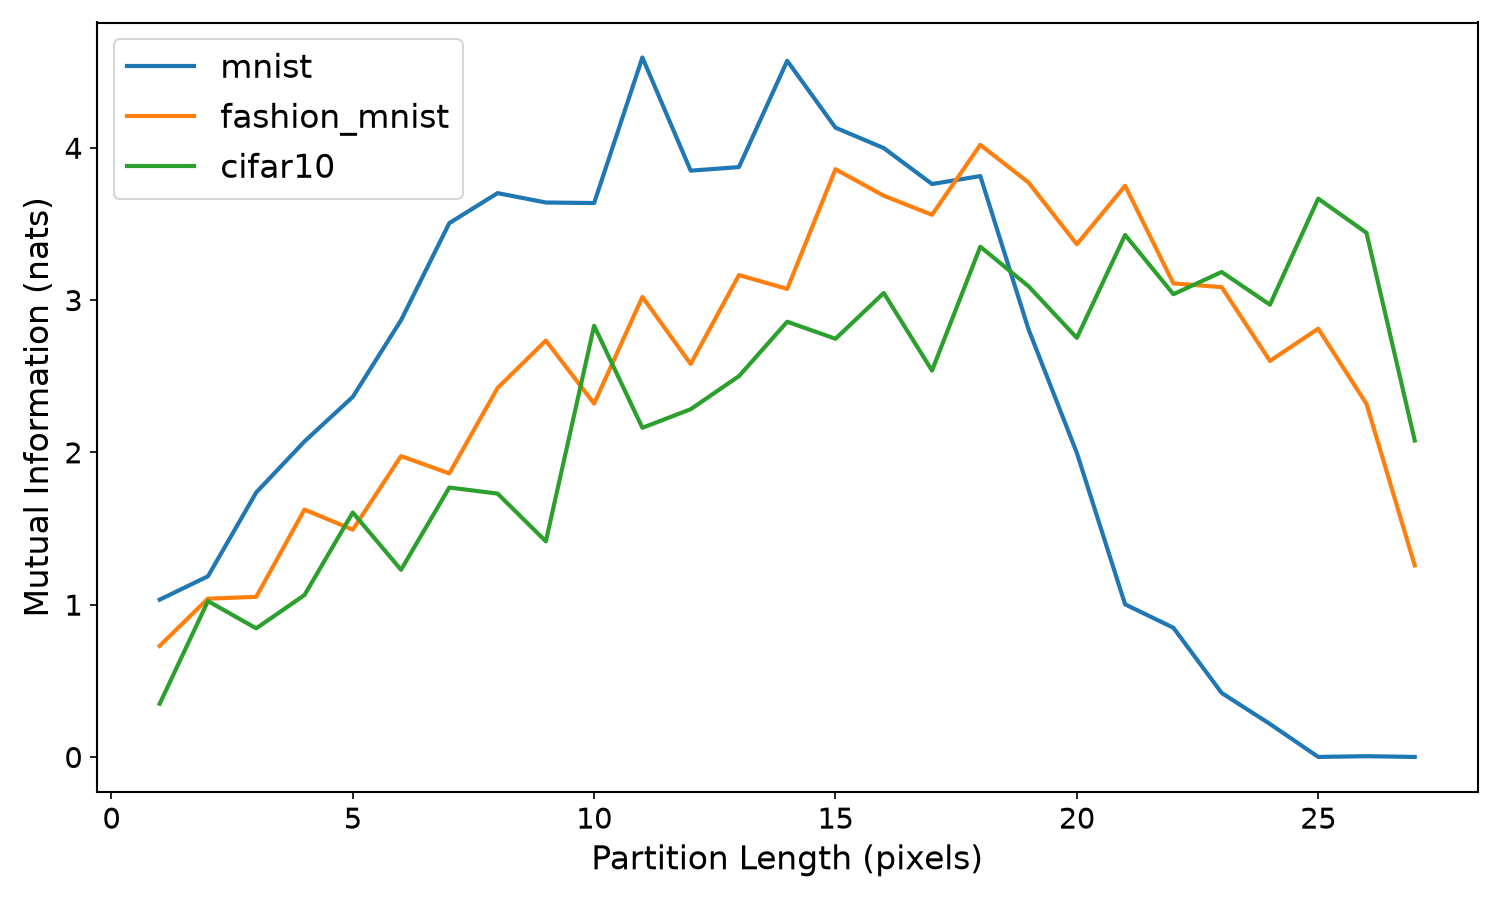
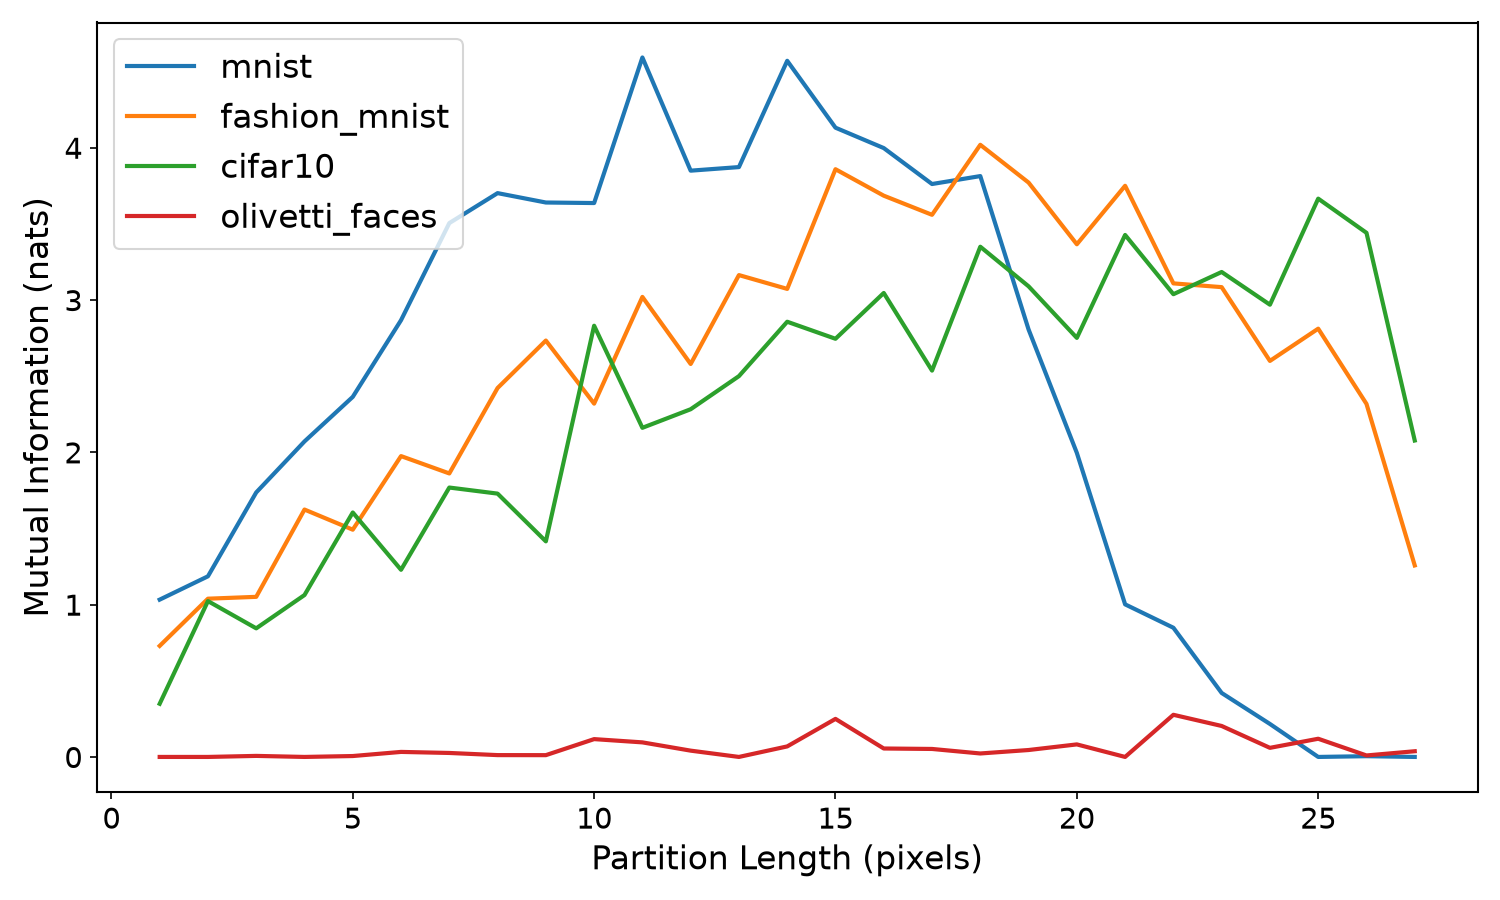
modified:   README.md 	modified:   examples.ipynb 	new file:   gaussian_scaling_analytic.pdf 	new file:   gaussian_scaling_analytic.png 	new file:   gaussian_scaling_validation.pdf 	new file:   gaussian_scaling_validation.png 	modified:   real_dataset_scaling.pdf 	modified:   real_dataset_scaling.pn

diff --git a/src/image.py b/src/image.py
@@ -278,6 +278,18 @@ def _load_fer2013_csv(csv_path, num_images):
     images = np.stack(pixel_rows).reshape([-1, 48, 48])
     return images
 
+def _load_olivetti_faces():
+
+    # This helper loads the Olivetti Faces dataset (400 grayscale face
+    # images, 10 each from 40 subjects) via scikit-learn. Unlike FER-2013,
+    # it downloads automatically from a stable, non-Kaggle mirror with no
+    # manual steps, but it is a face-recognition (identity) dataset rather
+    # than a facial-emotion dataset, and much smaller (400 images total).
+
+    from sklearn.datasets import fetch_olivetti_faces
+    data = fetch_olivetti_faces()
+    return data.images
+
 def get_images(source, num_images, strength = "small", target_size = DEFAULT_IMAGE_SIZE,
         fer_csv_path = None, fer_data_dir = None):
 
@@ -309,6 +321,13 @@ def get_images(source, num_images, strength = "small", target_size = DEFAULT_IMA
     elif source == 'fer2013':
         images = _load_fer2013(num_images, data_dir = fer_data_dir, csv_path = fer_csv_path) / 255
         # FER-2013 images are 48 x 48, so they are resized down to the target.
+        images = conform_size(images, target_size, mode = "resize")
+        cov = np.eye(images.shape[1] * images.shape[2])
+        mean = np.zeros(images.shape[1] * images.shape[2])
+    elif source == 'olivetti_faces':
+        images = _load_olivetti_faces()[:num_images]
+        # Olivetti Faces are 64 x 64 and already in [0, 1], so they are
+        # resized down to the target (only 400 images exist in total).
         images = conform_size(images, target_size, mode = "resize")
         cov = np.eye(images.shape[1] * images.shape[2])
         mean = np.zeros(images.shape[1] * images.shape[2])

diff --git a/README.md b/README.md
@@ -18,6 +18,7 @@ This version replaces the original **Tiny Images** dataset (the `tiny` and `gaus
 | `fashion_mnist` | Fashion-MNIST | 28x28 grayscale | 28x28 grayscale |
 | `cifar10` | CIFAR-10 | 32x32 RGB | 28x28 grayscale (luminance + centre crop) |
 | `fer2013` | FER-2013 (facial emotion recognition) | 48x48 grayscale | 28x28 grayscale (resized) |
+| `olivetti_faces` | Olivetti Faces (facial recognition) | 64x64 grayscale | 28x28 grayscale (resized) |
 
 Every real dataset is returned as grayscale floats in `[0, 1]` and conformed to a common 28x28 grid so the rest of the pipeline (partitioning, covariance reshaping, plotting) is unchanged. The target size is configurable via `get_images(..., target_size=N)`.
 
@@ -25,12 +26,16 @@ The Gaussian Markov random field sources (`area`, `diffuse`, `sparse`) and the G
 
 ### A note on FER-2013
 
-MNIST, Fashion-MNIST, and CIFAR-10 ship with Keras and download on first use. FER-2013 is **not** bundled with Keras, so it is loaded through [`tensorflow-datasets`](https://www.tensorflow.org/datasets), which downloads it on first use. If the automatic download is unavailable (it has historically been hosted behind Kaggle auth), pass a path to the standard `fer2013.csv` instead:
+MNIST, Fashion-MNIST, and CIFAR-10 ship with Keras and download on first use. FER-2013 is **not** bundled with Keras, so it is loaded through [`tensorflow-datasets`](https://www.tensorflow.org/datasets), which downloads it on first use. **As of this writing, `fer2013` has been removed from the `tensorflow-datasets` catalog entirely** (`tfds.load("fer2013", ...)` raises `DatasetNotFoundError`), so the automatic path currently always fails; `get_images("fer2013", ...)` is skipped automatically (with a printed message) if this happens. To use it anyway, pass a path to a manually obtained standard `fer2013.csv` instead:
 
 ```python
 from src import image as img
 images, _, _ = img.get_images("fer2013", 70000, fer_csv_path="path/to/fer2013.csv")
 ```
+
+### A note on Olivetti Faces
+
+Because FER-2013 currently requires a manually supplied CSV, `olivetti_faces` is included as a facial dataset that downloads automatically with no account or manual steps (via `sklearn.datasets.fetch_olivetti_faces`, from a stable non-Kaggle mirror). It differs from FER-2013 in two ways worth knowing: it's a face-*recognition* (identity) dataset rather than a facial-*emotion* one, and it's much smaller — only 400 images total (40 subjects x 10 images each) versus FER-2013's ~35,000 — so its MI estimates are noisier than the other datasets' at the same settings.
 
 ## Requirements
 
@@ -43,7 +48,8 @@ pip install -r requirements.txt
 `requirements.txt` lists the direct dependencies with minimum compatible versions; run `pip-compile requirements.in` (from `pip-tools`) to produce a fully pinned lockfile. Key requirements:
 
 - `tensorflow>=2.17` (needed for NumPy 2.x and Python 3.12 support)
-- `tensorflow-datasets` (provides FER-2013)
+- `tensorflow-datasets` (provides FER-2013, when available)
+- `scikit-learn` (provides Olivetti Faces)
 - `numpy>=2.0`, `matplotlib`, `pillow`, `notebook`
 
 ### A note on Python 3.14
@@ -74,3 +80,6 @@ python -m src.mine
 - That section now plots the *direct* MI estimate rather than the *indirect* (Donsker-Varadhan-style) one, matching how the original paper's own real-dataset figures (`plot_averages`) were generated. The indirect estimate's `log(mean(exp(...)))` term is much more sensitive to noisy batches and can dip below zero even though MI is analytically non-negative; the direct estimate (a plain mean of classifier logits) is far more stable. `image.plot_mi_scaling` also gained a `clip_negative` option (used here) to floor any residual noise-driven negative values at zero.
 - `mine.run_bipartition` gained an optional `eval_steps` argument (default 5000, unchanged) so the number of validation batches averaged over in `evaluate_MI` can be reduced to match a smaller `num_images`, instead of always evaluating over 5000 batches regardless of dataset size.
 - The notebook's real-dataset sweep now uses reduced settings (10,000 images, up to 30 epochs, patience 8, 400 eval steps) instead of the paper's full scale (70,000 images, up to 3,000 epochs, see `mine.ini`), so the 27-length sweep across multiple datasets finishes in minutes rather than hours. Raise these values for higher-fidelity curves closer to the published figures.
+- Added `olivetti_faces` (via `sklearn.datasets.fetch_olivetti_faces`) as a working facial dataset in `src/image.py`, and included it in the notebook's real-dataset sweep, since FER-2013 currently can't be loaded automatically (see "A note on FER-2013" above). Added `scikit-learn` to `requirements.in`/`requirements.txt`.
+- `examples.ipynb`'s Gaussian Markov random field section gained two new live-computed cells after the static reference figures: (1) the *exact* analytic MI curves for all three field types at both correlation strengths, computed instantly from the closed-form Gaussian formula (`image.get_analytic_MI`) with no training; and (2) a validation plot overlaying the neural estimator's *direct* MI estimate (swept across all 27 partition lengths, same reduced settings as the real-dataset sweep) against that exact curve for the `diffuse`/`large` field, to demonstrate the estimator actually recovers the known value.
+- Fixed a notebook-format bug where several cells' `source` field had been written as a single raw string instead of a list of lines (both are valid per the nbformat spec, but the string form rendered as blank/invisible cell input in VS Code's notebook editor even though the cells still executed correctly).